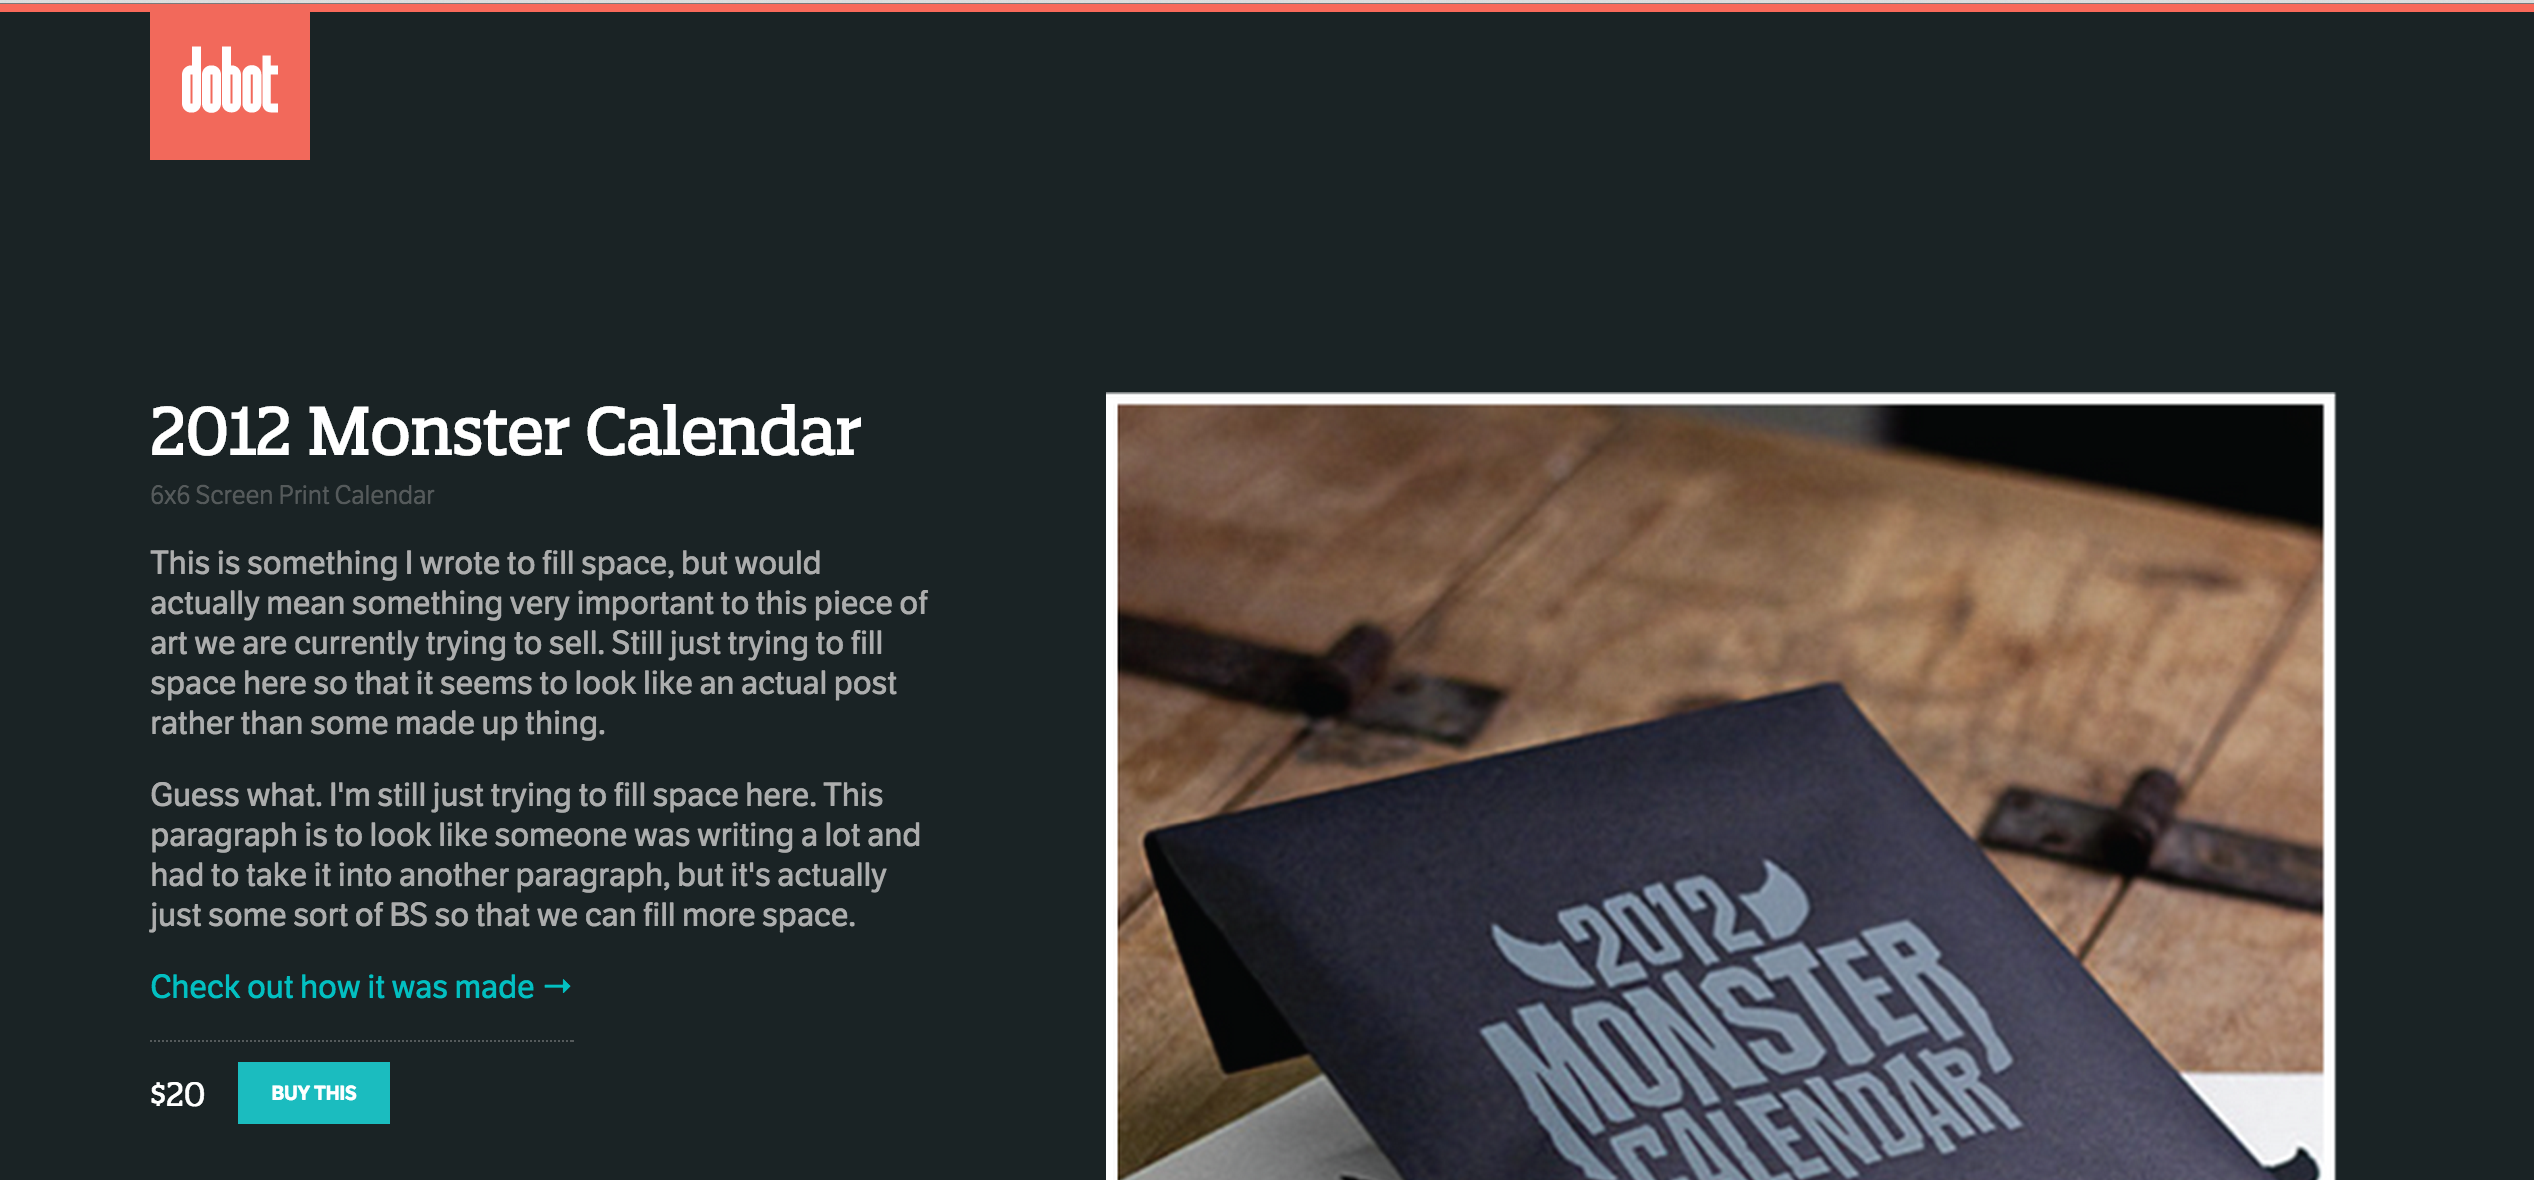
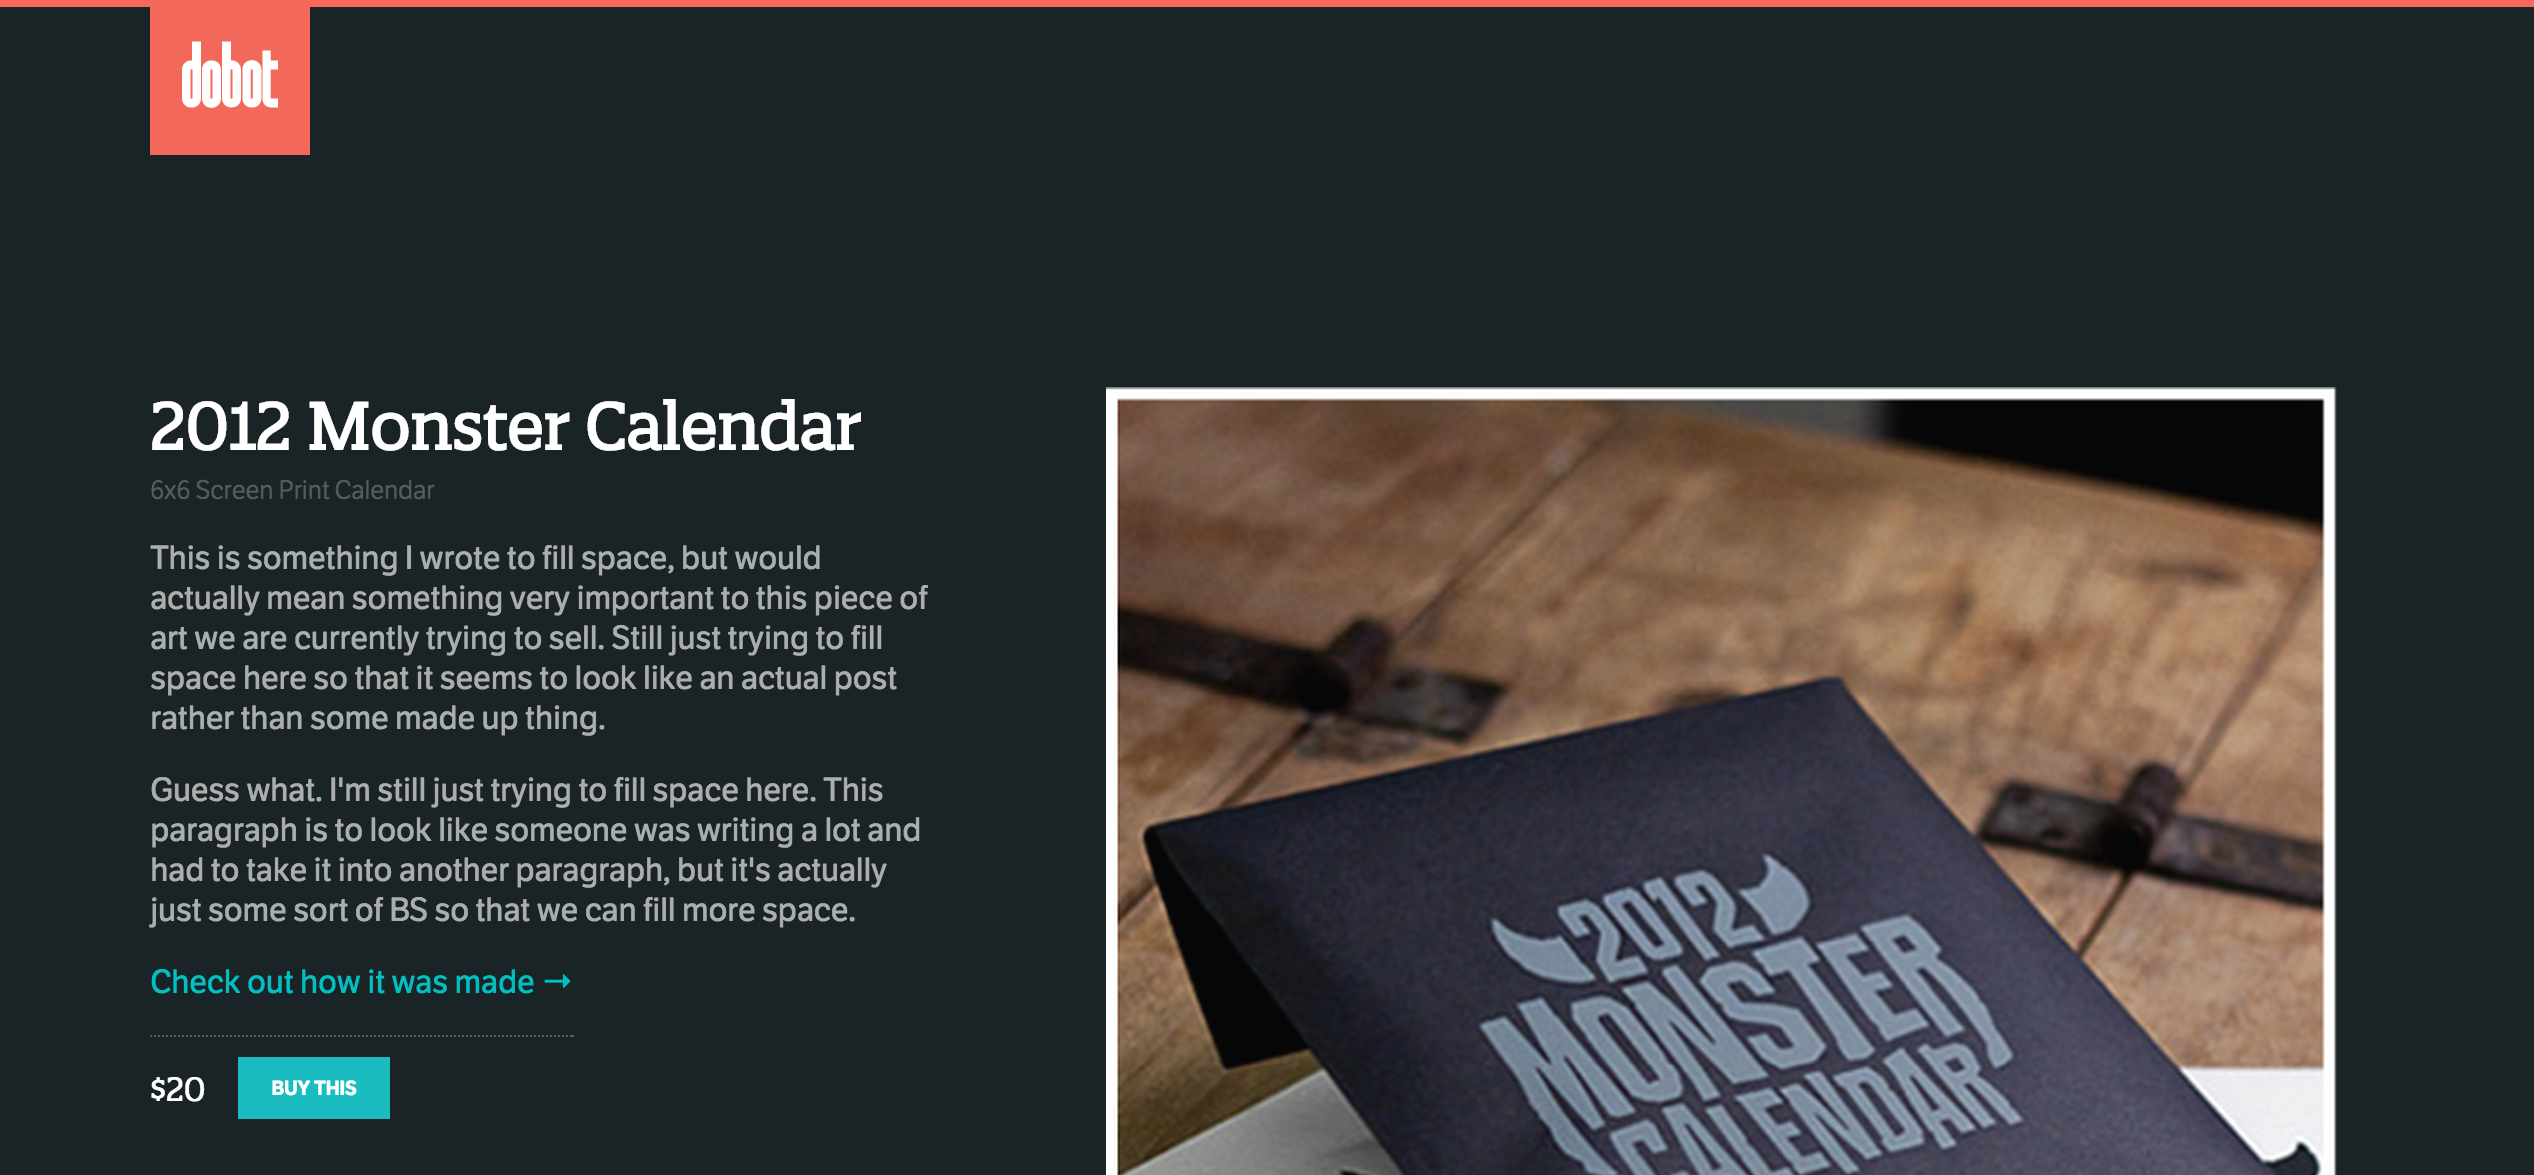
Intro content, image, and styling

diff --git a/dobot.html b/dobot.html
@@ -55,10 +55,19 @@
                   This was a test website I created based on a Photoshop mockup for a company in Boston, MA.
                   Completed February 2015.
                 </p>
+                <p>
+                  <span class="blue">Here are the parameters I was given:</span>
+                  <ol>
+                    <li>Test on up-to-date Chrome and Firefox down to 320px wide</li>
+                    <li>Don't use any frameworks</li>
+                    <li>Write your code using <a href="http://csswizardry.com/2013/01/mindbemding-getting-your-head-round-bem-syntax/" target="blank">BEM</a> and <a href="https://smacss.com/" target="blank">SMACSS</a> guidelines</li>
+                    <li>When in mobile, the content order should be: Heading, dimensions, image, long description, link, etc.</li>
+                  </ol>
+                </p>
               </div>
             </div>
 
-                <a href="http://andrealeigh.github.io/dobot/" target="_blank"><img src="images/dobot.png" class="projects-img img-responsive img-thumbnail center-block" alt="Dobot"/></a>
+                <a href="http://andrealeigh.github.io/dobot/" target="_blank"><img src="images/dobot.png" class="projects-img img-responsive center-block" alt="Dobot"/></a>
 
             <div class="row">
               <div class="col-md-9 col-md-offset-1">

diff --git a/css/styles1.css b/css/styles1.css
@@ -80,7 +80,7 @@
   font-family: 'robotoregular', sans-serif;
 }
 /* line 72, ../sass/styles1.scss */
-.body .website-projects li {
+.body .website-projects ul li {
   margin-bottom: 16px;
 }
 /* line 75, ../sass/styles1.scss */

diff --git a/sass/styles1.scss b/sass/styles1.scss
@@ -69,7 +69,7 @@
       color: #0000c0;
       font-family: 'robotoregular', sans-serif;
     }
-    li {
+    ul li {
       margin-bottom: 16px;
     }
     .img-inspiration {
